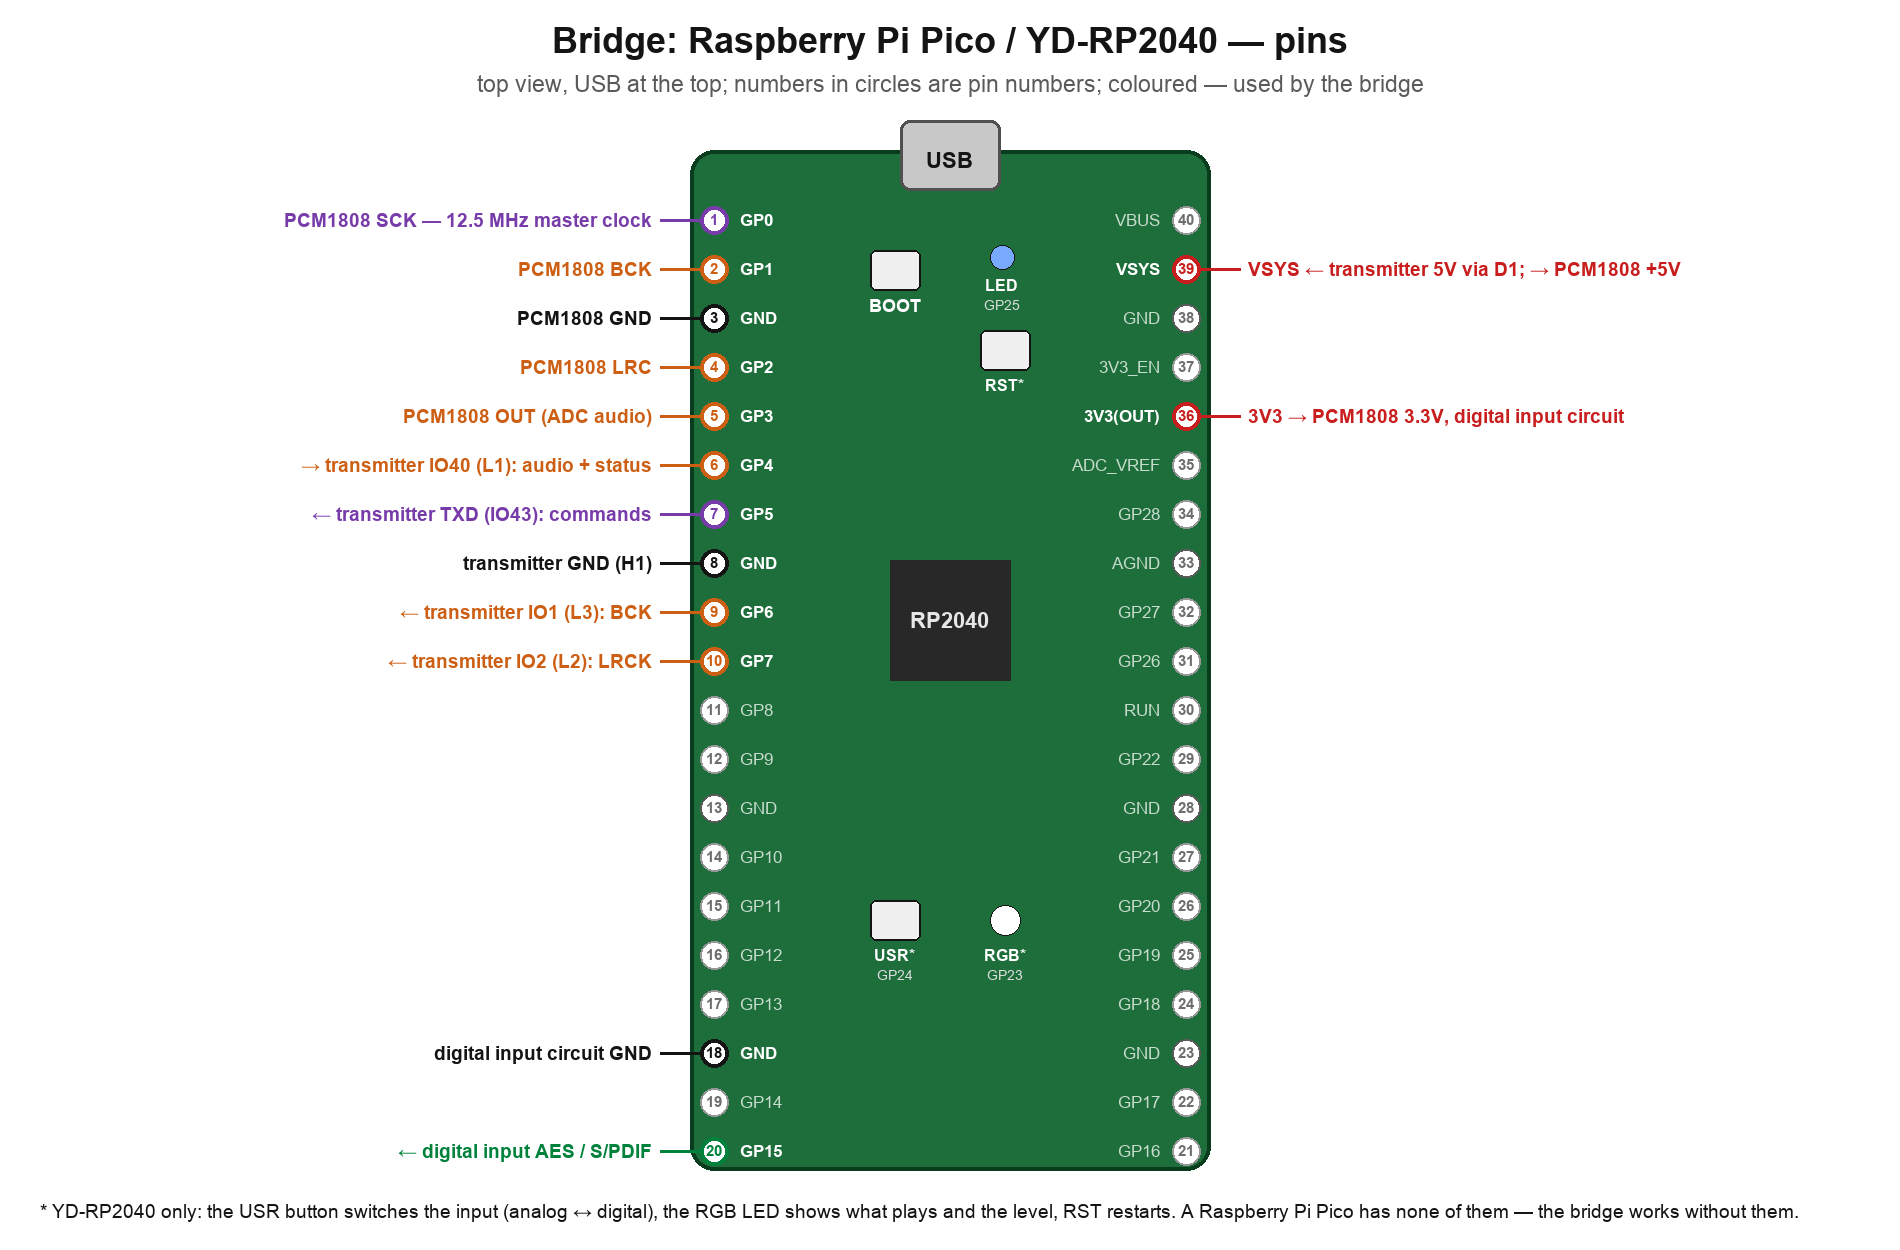
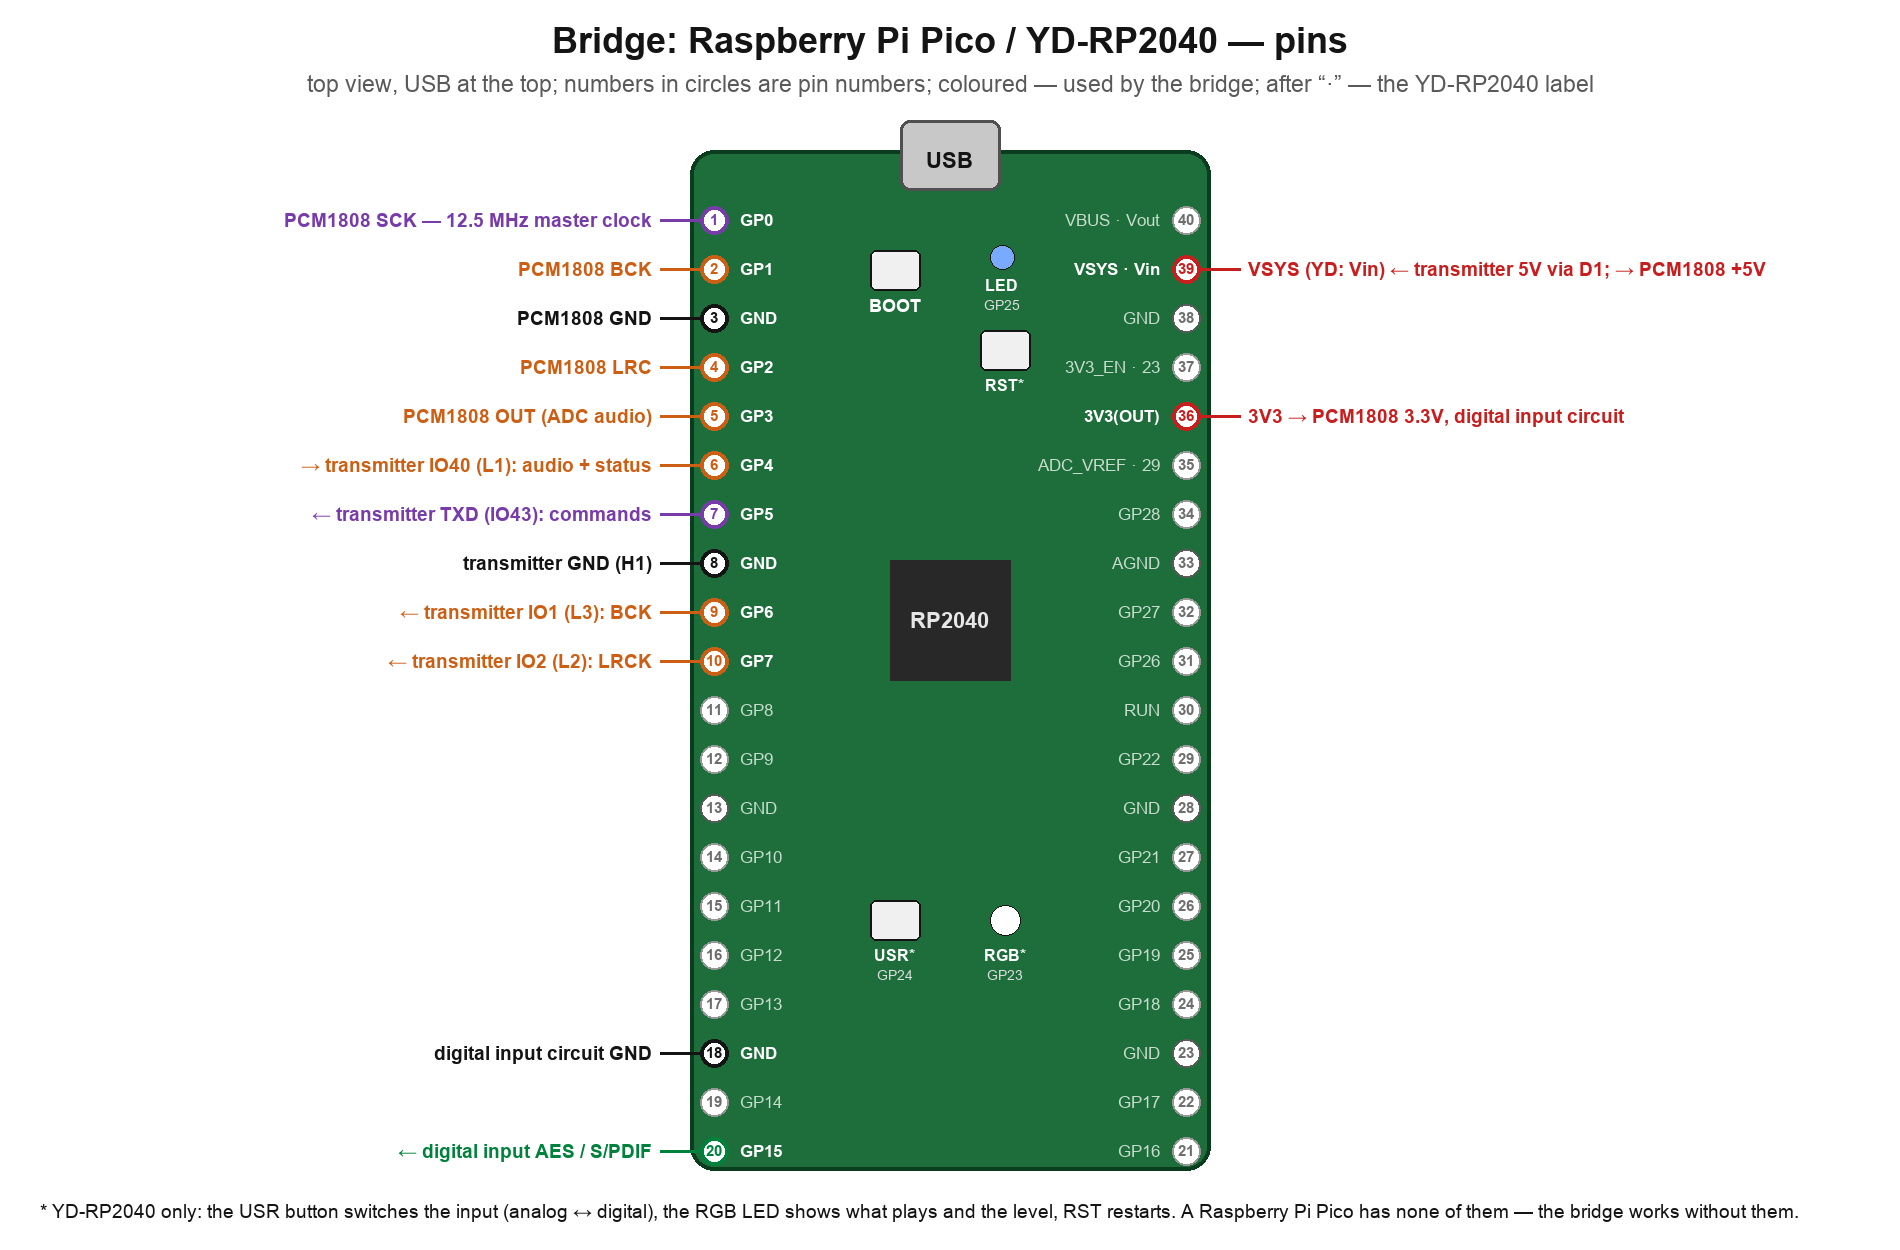
Docs 4.00: photos of the owner's YD-RP2040 bridge board, the used pins marked on the photo, YD-RP2040 labels (Vin = VSYS, Vout = VBUS, GP23, GP29)
Owner: "here is our module", "here is a good-quality one". docs/photos/yd-rp2040.jpg (main photo),
yd-rp2040-flat.jpg + tools/gen_yd_photo.py: the pins the bridge needs marked with Pico pin numbers; the pinout picture
and the wiring schematic show the YD-RP2040 labels; tables say VSYS (39) is "Vin" on the YD-RP2040.

[skip ci]

diff --git a/tools/gen_yd_photo.py b/tools/gen_yd_photo.py
@@ -1,0 +1,77 @@
+# -*- coding: utf-8 -*-
+"""Фото YD-RP2040 (плата моста власника, прямий знімок docs/photos/yd-rp2040-flat.jpg) з позначеними виводами, які потрібні мосту:
+docs/img/mist-yd-rp2040-foto-<мова>.png (uk, en). Нижній ряд на фото — ніжки 1–20 (GP0…GP15, USB ліворуч), верхній —
+40…21: на YD-RP2040 ніжку 39 (VSYS у Pico) підписано «Vin», 40 (VBUS) — «Vout», 37 — «23», 35 — «29».
+Запуск: python3 tools/gen_yd_photo.py"""
+import os
+from PIL import Image, ImageDraw, ImageFont
+
+ROOT = os.path.join(os.path.dirname(os.path.abspath(__file__)), '..')
+SUP = '/System/Library/Fonts/Supplemental/'
+F = lambda n, b=False: ImageFont.truetype(SUP + ('Arial Bold.ttf' if b else 'Arial.ttf'), n)
+INK, RED, GRN, VIO, ORG = (20, 20, 20), (200, 30, 30), (0, 130, 60), (120, 60, 170), (205, 95, 20)
+
+BOT = {1: VIO, 2: ORG, 3: INK, 4: ORG, 5: ORG, 6: ORG, 7: VIO, 8: INK, 9: ORG, 10: ORG, 18: INK, 20: GRN}
+TOP = {36: RED, 39: RED}
+LEG = {
+    'uk': [(1, 'GP0 → PCM1808 SCK'), (2, 'GP1 → PCM1808 BCK'), (3, 'GND → PCM1808 GND'), (4, 'GP2 → PCM1808 LRC'),
+           (5, 'GP3 ← PCM1808 OUT'), (6, 'GP4 → передавач IO40 (L1)'), (7, 'GP5 ← передавач TXD'),
+           (8, 'GND → передавач GND'), (9, 'GP6 ← передавач IO1 (L3)'), (10, 'GP7 ← передавач IO2 (L2)'),
+           (18, 'GND → схема цифрового входу'), (20, 'GP15 ← цифровий вхід'), (36, '3V3 → PCM1808, схема входу'),
+           (39, 'Vin (= VSYS) ← 5V через діод; → PCM1808 +5V')],
+    'en': [(1, 'GP0 → PCM1808 SCK'), (2, 'GP1 → PCM1808 BCK'), (3, 'GND → PCM1808 GND'), (4, 'GP2 → PCM1808 LRC'),
+           (5, 'GP3 ← PCM1808 OUT'), (6, 'GP4 → transmitter IO40 (L1)'), (7, 'GP5 ← transmitter TXD'),
+           (8, 'GND → transmitter GND'), (9, 'GP6 ← transmitter IO1 (L3)'), (10, 'GP7 ← transmitter IO2 (L2)'),
+           (18, 'GND → digital input circuit'), (20, 'GP15 ← digital input'), (36, '3V3 → PCM1808, input circuit'),
+           (39, 'Vin (= VSYS) ← 5V via diode; → PCM1808 +5V')],
+}
+COL = dict(list(BOT.items()) + list(TOP.items()))
+
+
+def draw(lang):
+    src = Image.open(os.path.join(ROOT, 'docs/photos/yd-rp2040-flat.jpg')).convert('RGB')
+    x0, y0, x1, y1, k = 40, 55, 460, 265, 3
+    ph = src.crop((x0, y0, x1, y1)).resize(((x1 - x0) * k, (y1 - y0) * k), Image.LANCZOS)
+    W, H = 1900, 920
+    im = Image.new('RGB', (W, H), (255, 255, 255))
+    d = ImageDraw.Draw(im)
+    d.text((W // 2, 38), ('Плата моста YD-RP2040: які виводи під\'єднати' if lang == 'uk' else
+                          'YD-RP2040 bridge board: which pins to connect'), font=F(34, True), fill=INK, anchor='mm')
+    d.text((W // 2, 78), ('у кружечках — номер ніжки (як у Raspberry Pi Pico); написи на платі — номери GP' if lang == 'uk' else
+                          'circles show the pin number (as on a Raspberry Pi Pico); the board prints GP numbers'),
+           font=F(22), fill=(90, 90, 90), anchor='mm')
+    ox, oy = 40, 150
+    im.paste(ph, (ox, oy))
+    P = lambda x, y: (ox + (x - x0) * k, oy + (y - y0) * k)
+    for n, c in BOT.items():
+        x, y = P(65.7 + (n - 1) * 19.23, 235)
+        d.ellipse((x - 21, y - 21, x + 21, y + 21), outline=c, width=5)
+        d.ellipse((x - 16, y + 96, x + 16, y + 128), fill=c)
+        d.text((x, y + 112), str(n), font=F(17, True), fill=(255, 255, 255), anchor='mm')
+        d.line((x, y + 21, x, y + 96), fill=c, width=3)
+    for n, c in TOP.items():
+        x, y = P(66 + (40 - n) * 19.23, 100.7)
+        d.ellipse((x - 21, y - 21, x + 21, y + 21), outline=c, width=5)
+        d.ellipse((x - 16, y - 118, x + 16, y - 86), fill=c)
+        d.text((x, y - 102), str(n), font=F(17, True), fill=(255, 255, 255), anchor='mm')
+        d.line((x, y - 21, x, y - 86), fill=c, width=3)
+    lx, ly = 1340, 140
+    for j, (n, t) in enumerate(LEG[lang]):
+        y = ly + j * 47
+        c = COL[n]
+        d.ellipse((lx, y, lx + 32, y + 32), fill=c)
+        d.text((lx + 16, y + 16), str(n), font=F(16, True), fill=(255, 255, 255), anchor='mm')
+        d.text((lx + 44, y + 16), t, font=F(18, True if n in (39, 20) else False), fill=c if c != INK else INK, anchor='lm')
+    note = ('Ніжку 39 на YD-RP2040 підписано «Vin» (у Pico — VSYS), 40 — «Vout» (VBUS, 5 В від USB). Кнопки: BOOT — запис, '
+            'USR — вхід аналоговий ↔ цифровий, RST — перезапуск.' if lang == 'uk' else
+            'Pin 39 is labelled “Vin” on the YD-RP2040 (VSYS on a Pico), pin 40 “Vout” (VBUS, 5 V from USB). Buttons: BOOT — '
+            'writing, USR — input analog ↔ digital, RST — restart.')
+    d.text((40, 870), note, font=F(19), fill=INK)
+    out = os.path.join(ROOT, 'docs/img/mist-yd-rp2040-foto-%s.png' % lang)
+    im.save(out)
+    print('ok', os.path.basename(out))
+
+
+if __name__ == '__main__':
+    draw('uk')
+    draw('en')

diff --git a/tools/gen_pico.py b/tools/gen_pico.py
@@ -12,7 +12,7 @@ INK, RED, GRN, VIO, ORG, BLU, AUD, GRY = (20, 20, 20), (200, 30, 30), (0, 130, 6
 
 LEFT = ['GP0', 'GP1', 'GND', 'GP2', 'GP3', 'GP4', 'GP5', 'GND', 'GP6', 'GP7', 'GP8', 'GP9', 'GND', 'GP10', 'GP11',
         'GP12', 'GP13', 'GND', 'GP14', 'GP15']                       # ніжки 1…20 згори вниз
-RIGHT = ['VBUS', 'VSYS', 'GND', '3V3_EN', '3V3(OUT)', 'ADC_VREF', 'GP28', 'AGND', 'GP27', 'GP26', 'RUN', 'GP22', 'GND',
+RIGHT = ['VBUS · Vout', 'VSYS · Vin', 'GND', '3V3_EN · 23', '3V3(OUT)', 'ADC_VREF · 29', 'GP28', 'AGND', 'GP27', 'GP26', 'RUN', 'GP22', 'GND',
          'GP21', 'GP20', 'GP19', 'GP18', 'GND', 'GP17', 'GP16']      # ніжки 40…21 згори вниз
 USE = {   # ніжка: (колір, uk, en)
     1: (VIO, 'PCM1808 SCK — головний такт 12,5 МГц', 'PCM1808 SCK — 12.5 MHz master clock'),
@@ -27,7 +27,7 @@ USE = {   # ніжка: (колір, uk, en)
     10: (ORG, '← передавач IO2 (L2): LRCK', '← transmitter IO2 (L2): LRCK'),
     18: (INK, 'GND схеми цифрового входу', 'digital input circuit GND'),
     20: (GRN, '← цифровий вхід AES / S/PDIF', '← digital input AES / S/PDIF'),
-    39: (RED, 'VSYS ← 5V передавача через D1; → PCM1808 +5V', 'VSYS ← transmitter 5V via D1; → PCM1808 +5V'),
+    39: (RED, 'VSYS (на YD — Vin) ← 5V передавача через D1; → PCM1808 +5V', 'VSYS (YD: Vin) ← transmitter 5V via D1; → PCM1808 +5V'),
     36: (RED, '3V3 → PCM1808 3.3V, схема цифрового входу', '3V3 → PCM1808 3.3V, digital input circuit'),
 }
 
@@ -39,8 +39,8 @@ def draw(lang):
     d = ImageDraw.Draw(im)
     d.text((W // 2, 40), ('Міст: Raspberry Pi Pico / YD-RP2040 — виводи' if lang == 'uk' else
                           'Bridge: Raspberry Pi Pico / YD-RP2040 — pins'), font=F(36, True), fill=INK, anchor='mm')
-    d.text((W // 2, 84), ('вигляд згори, USB угорі; у кружечках — номери ніжок; кольором — зайняті мостом' if lang == 'uk' else
-                          'top view, USB at the top; numbers in circles are pin numbers; coloured — used by the bridge'),
+    d.text((W // 2, 84), ('вигляд згори, USB угорі; у кружечках — номери ніжок; кольором — зайняті мостом; після «·» — напис на YD-RP2040' if lang == 'uk' else
+                          'top view, USB at the top; numbers in circles are pin numbers; coloured — used by the bridge; after “·” — the YD-RP2040 label'),
            font=F(23), fill=(90, 90, 90), anchor='mm')
     bx0, bx1, by0, by1 = 690, 1210, 150, 1170
     d.rounded_rectangle((bx0, by0, bx1, by1), 24, fill=(30, 110, 60), outline=(10, 60, 30), width=4)

diff --git a/tools/gen_schema4.py b/tools/gen_schema4.py
@@ -148,7 +148,7 @@ def wiring(lang):
     block(760, 120, 290, 620, tr('bridge', lang), 'Pi Pico / YD-RP2040')
     block(1200, 120, 280, 330, tr('tx_block', lang), tr('tx_block_sub', lang))
     rows = [('SCK', 'GP0 (1)', VIO, tr('mclk', lang)), ('BCK', 'GP1 (2)', ORG, ''), ('LRC', 'GP2 (4)', ORG, ''),
-            ('OUT', 'GP3 (5)', ORG, ''), ('3.3V', '3V3 OUT (36)', RED, ''), ('+5V', 'VSYS (39)', RED, ''),
+            ('OUT', 'GP3 (5)', ORG, ''), ('3.3V', '3V3 OUT (36)', RED, ''), ('+5V', 'VSYS / Vin (39)', RED, ''),
             ('GND', 'GND (3)', BLK, '')]
     for i, (a, b, c, lab) in enumerate(rows):
         y = 170 + i * 44
@@ -181,7 +181,7 @@ def wiring(lang):
     line([(1124, y5), (1050, y5)], RED, 2.5)
     text(1137, y5 - 18, tr('diode', lang), 11.5, 'middle', RED)
     text(1137, y5 + 30, tr('diode_sub', lang), 11, 'middle', '#555')
-    pin(1050, y5, 'VSYS (39)', 'r')
+    pin(1050, y5, 'VSYS / Vin (39)', 'r')
     pin(1200, y5, '5V · ' + lo + ' 1', 'l')
     # передавач
     text(1335, 490, tr('radio', lang), 13, 'middle', BLU, True)

diff --git a/docs/en/next-edition.md b/docs/en/next-edition.md
@@ -50,7 +50,15 @@ The receivers are the same: same board, same firmware (one for all boards), same
 
 ## The bridge board: Raspberry Pi Pico / YD-RP2040
 
+<img src="../photos/yd-rp2040.jpg" width="420" alt="YD-RP2040 board">
+
+![Which pins to connect — on the board photo](../img/mist-yd-rp2040-foto-en.png)
+
 ![Bridge pins](../img/mist-pico-vyvody-en.png)
+
+**Mind the YD-RP2040 labels:** pin 39 (VSYS on a Pico) is labelled **“Vin”** on it, pin 40 (VBUS) **“Vout”** (that is
+5 V from USB — feed nothing into it); in place of 3V3_EN and ADC_VREF it brings out GP23 and GP29. All other labels are
+GP numbers, as on a Pico.
 
 **What it is.** The Raspberry Pi Pico is a small board (51 × 21 mm) with an RP2040 microcontroller (two cores,
 programmable I/O blocks — PIO), 2 MB of flash, a USB connector and 40 pins along the edges (2.54 mm pitch — solder wires
@@ -108,7 +116,7 @@ Numbers in brackets are Pico pin numbers (the YD-RP2040 has the same layout).
 | L1 = IO40 (upper row, 3rd, next to GND) | GP4 (6) | audio and bridge status → transmitter |
 | TXD = IO43 (lower row, 2nd from the left) | GP5 (7) | commands → bridge (UART 115 200) |
 | GND (lower row, 4th) | GND (8) | ground |
-| 5V (lower row, 1st) | through diode D1 → VSYS (39) | bridge power |
+| 5V (lower row, 1st) | through diode D1 → VSYS (39; “Vin” on the YD-RP2040) | bridge power |
 
 **PCM1808 ↔ bridge**
 
@@ -119,7 +127,7 @@ Numbers in brackets are Pico pin numbers (the YD-RP2040 has the same layout).
 | LRC | GP2 (4) | |
 | OUT | GP3 (5) | |
 | 3.3V | 3V3 OUT (36) | |
-| +5V | VSYS (39) | ADC analog section |
+| +5V | VSYS (39; “Vin” on the YD-RP2040) | ADC analog section |
 | GND | GND (3) | |
 | FMY, MD1, MD0 | GND | |
 

diff --git a/README.uk.md b/README.uk.md
@@ -25,6 +25,7 @@
 <img src="docs/photos/esp32-4848s040-front.jpg" height="220" alt="Модуль передавача"> 
 <img src="docs/photos/esp32-s3-devkit-n16r8.jpg" height="220" alt="Плата приймача"> 
 <img src="docs/photos/m75-oled-encoder.jpg" height="220" alt="Екран із ручкою"> 
+<img src="docs/photos/yd-rp2040.jpg" height="220" alt="Міст YD-RP2040"> 
 <img src="docs/photos/pcm1808.jpg" height="220" alt="АЦП PCM1808">
 </p>
 

diff --git a/README.md b/README.md
@@ -27,6 +27,7 @@ in the board itself.
 <img src="docs/photos/esp32-4848s040-front.jpg" height="220" alt="Transmitter module"> 
 <img src="docs/photos/esp32-s3-devkit-n16r8.jpg" height="220" alt="Receiver board"> 
 <img src="docs/photos/m75-oled-encoder.jpg" height="220" alt="Display with knob"> 
+<img src="docs/photos/yd-rp2040.jpg" height="220" alt="YD-RP2040 bridge"> 
 <img src="docs/photos/pcm1808.jpg" height="220" alt="PCM1808 ADC">
 </p>
 
